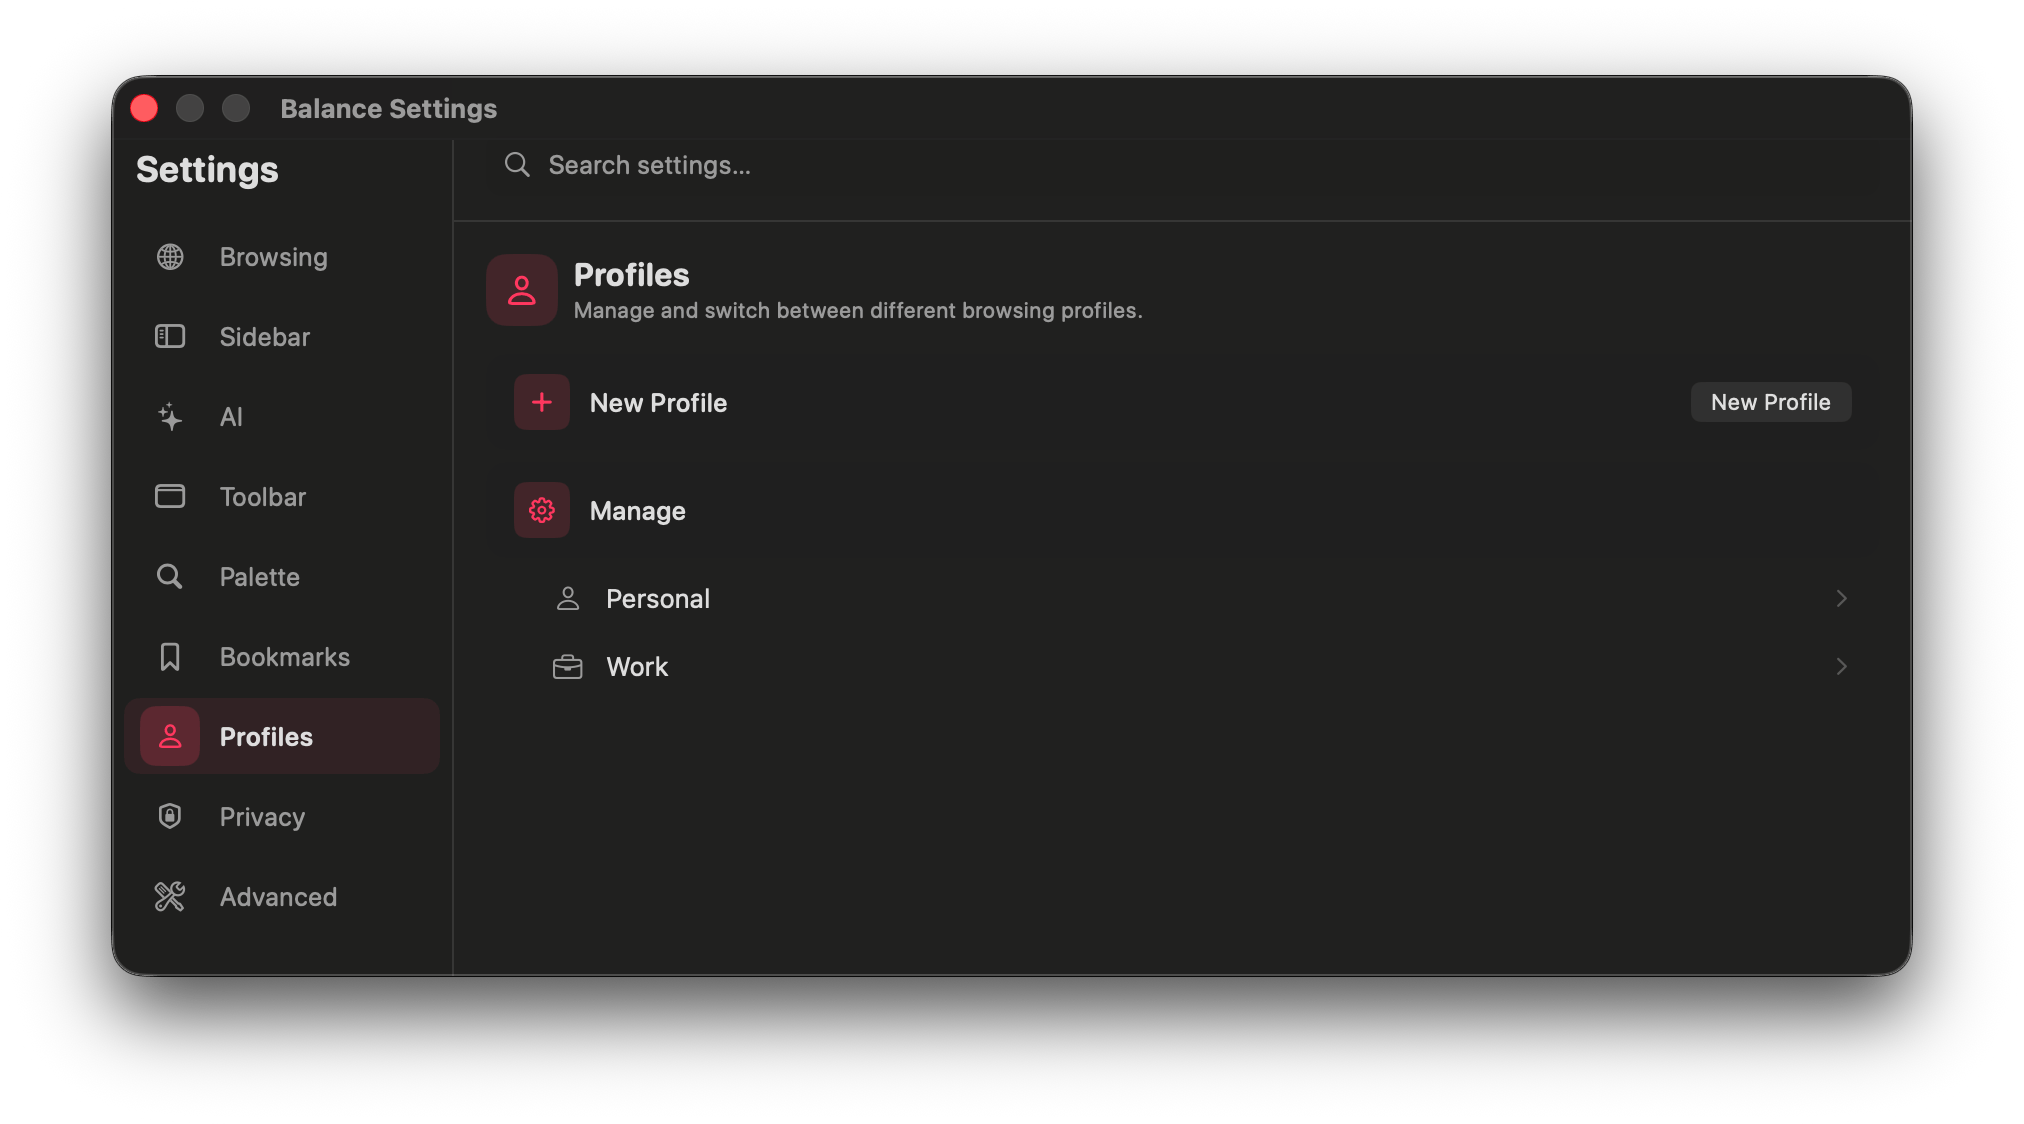
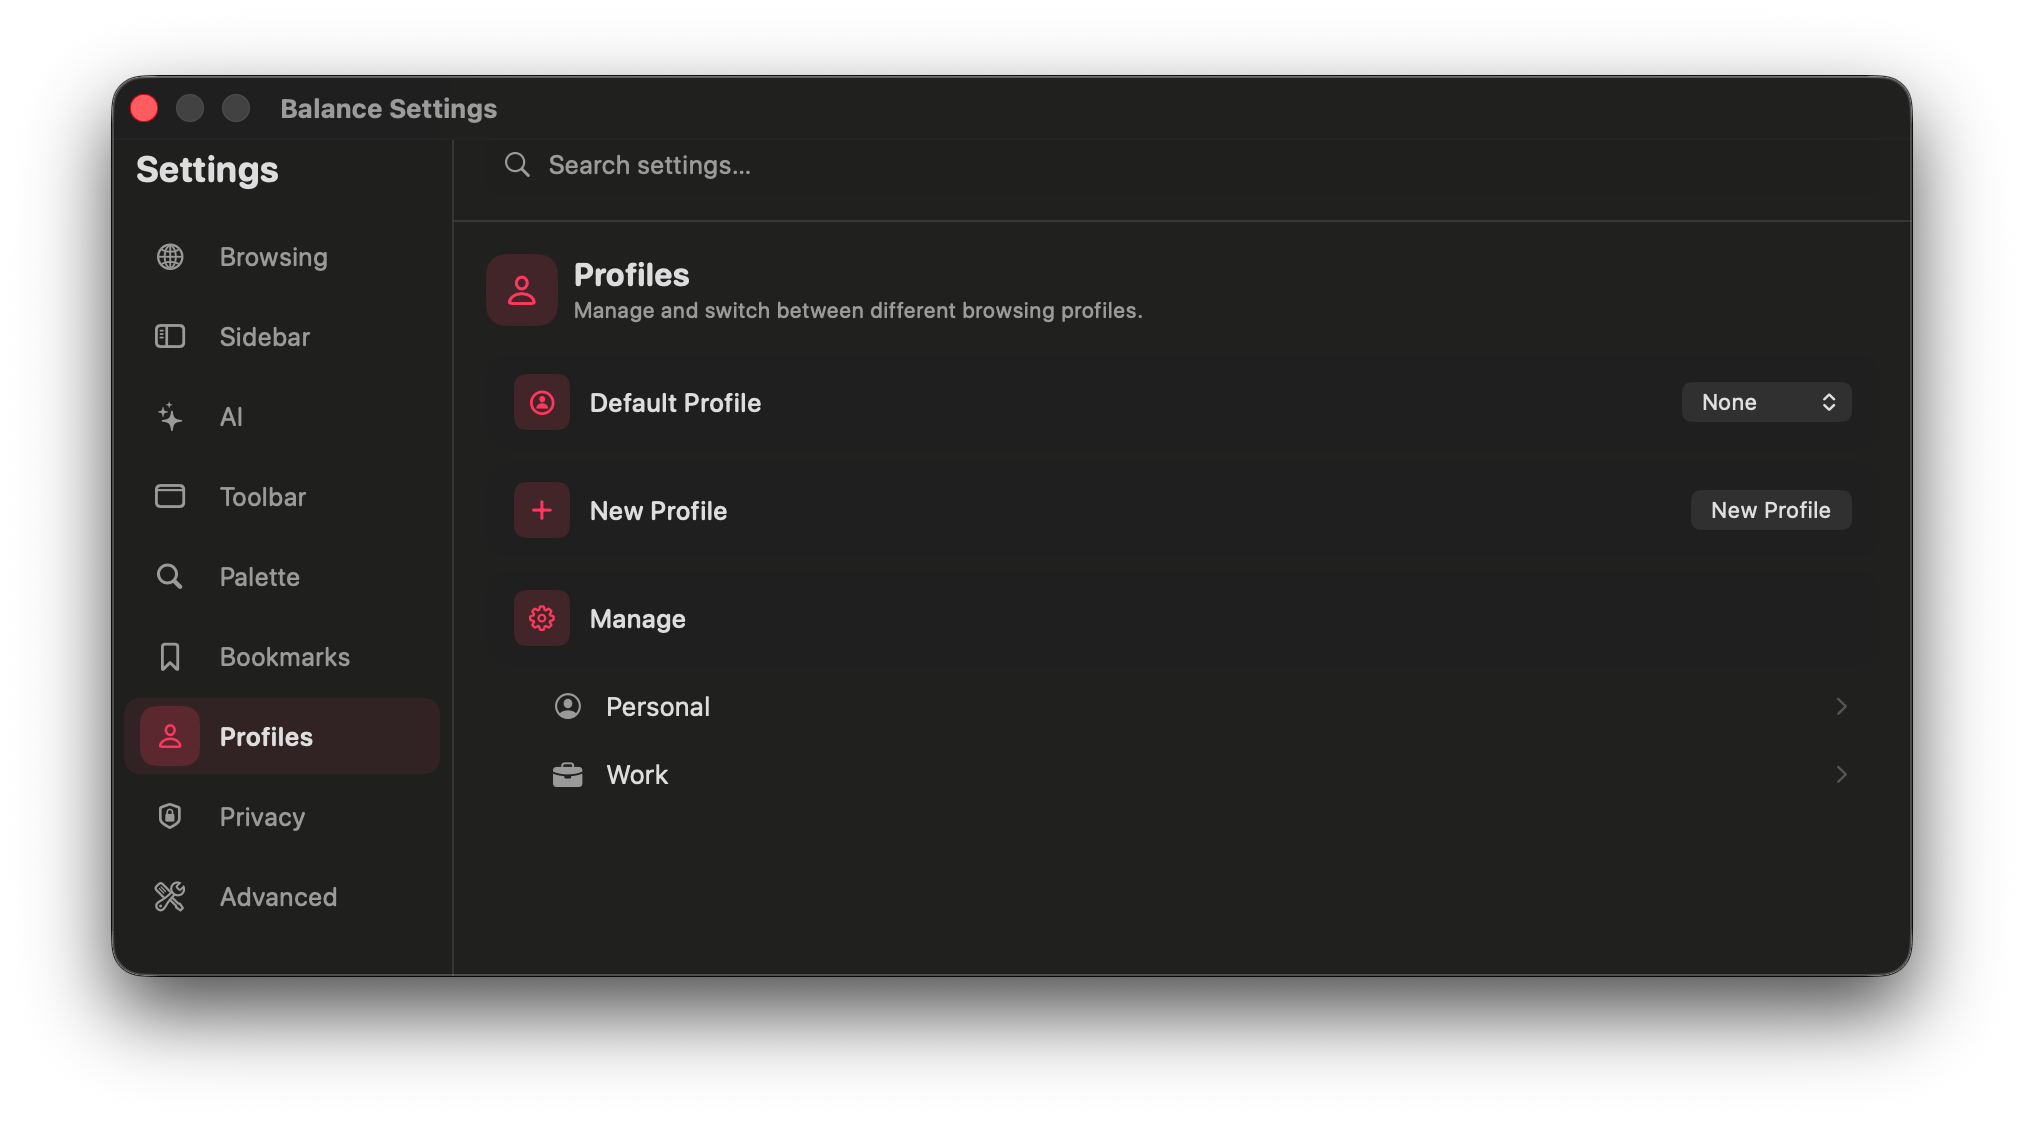
Move default profile

diff --git a/browser/Settings.swift b/browser/Settings.swift
@@ -844,10 +844,8 @@ struct SettingsSectionContent: View {
     
     var body: some View {
         VStack(alignment: .leading, spacing: 6) {
-            if def.id == "browsing" {
-                if !profiles.isEmpty {
+            if def.id == "profiles" && !profiles.isEmpty {
                     profilePickerRow
-                }
             }
 
             ForEach(settingsForCategory) { setting in
